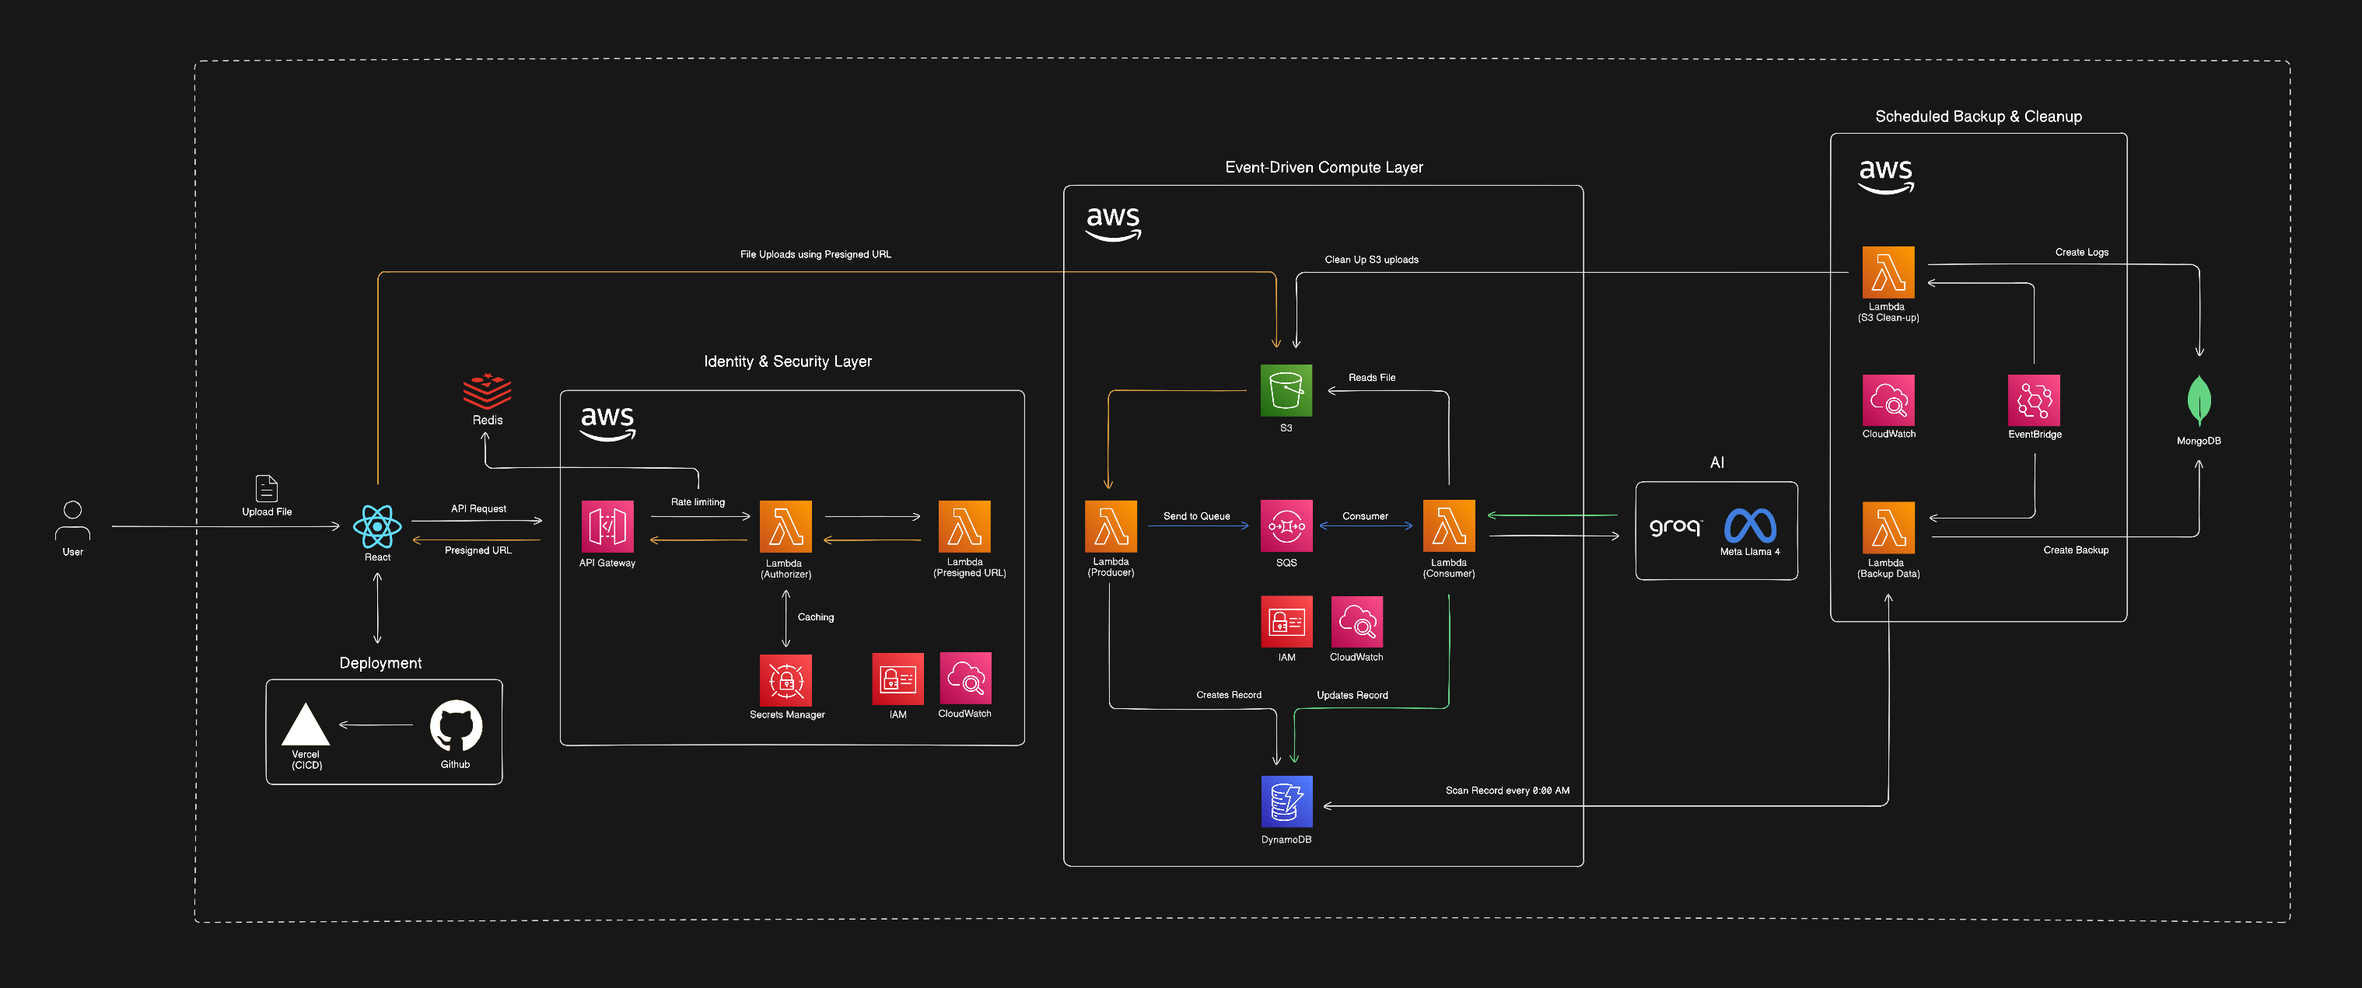
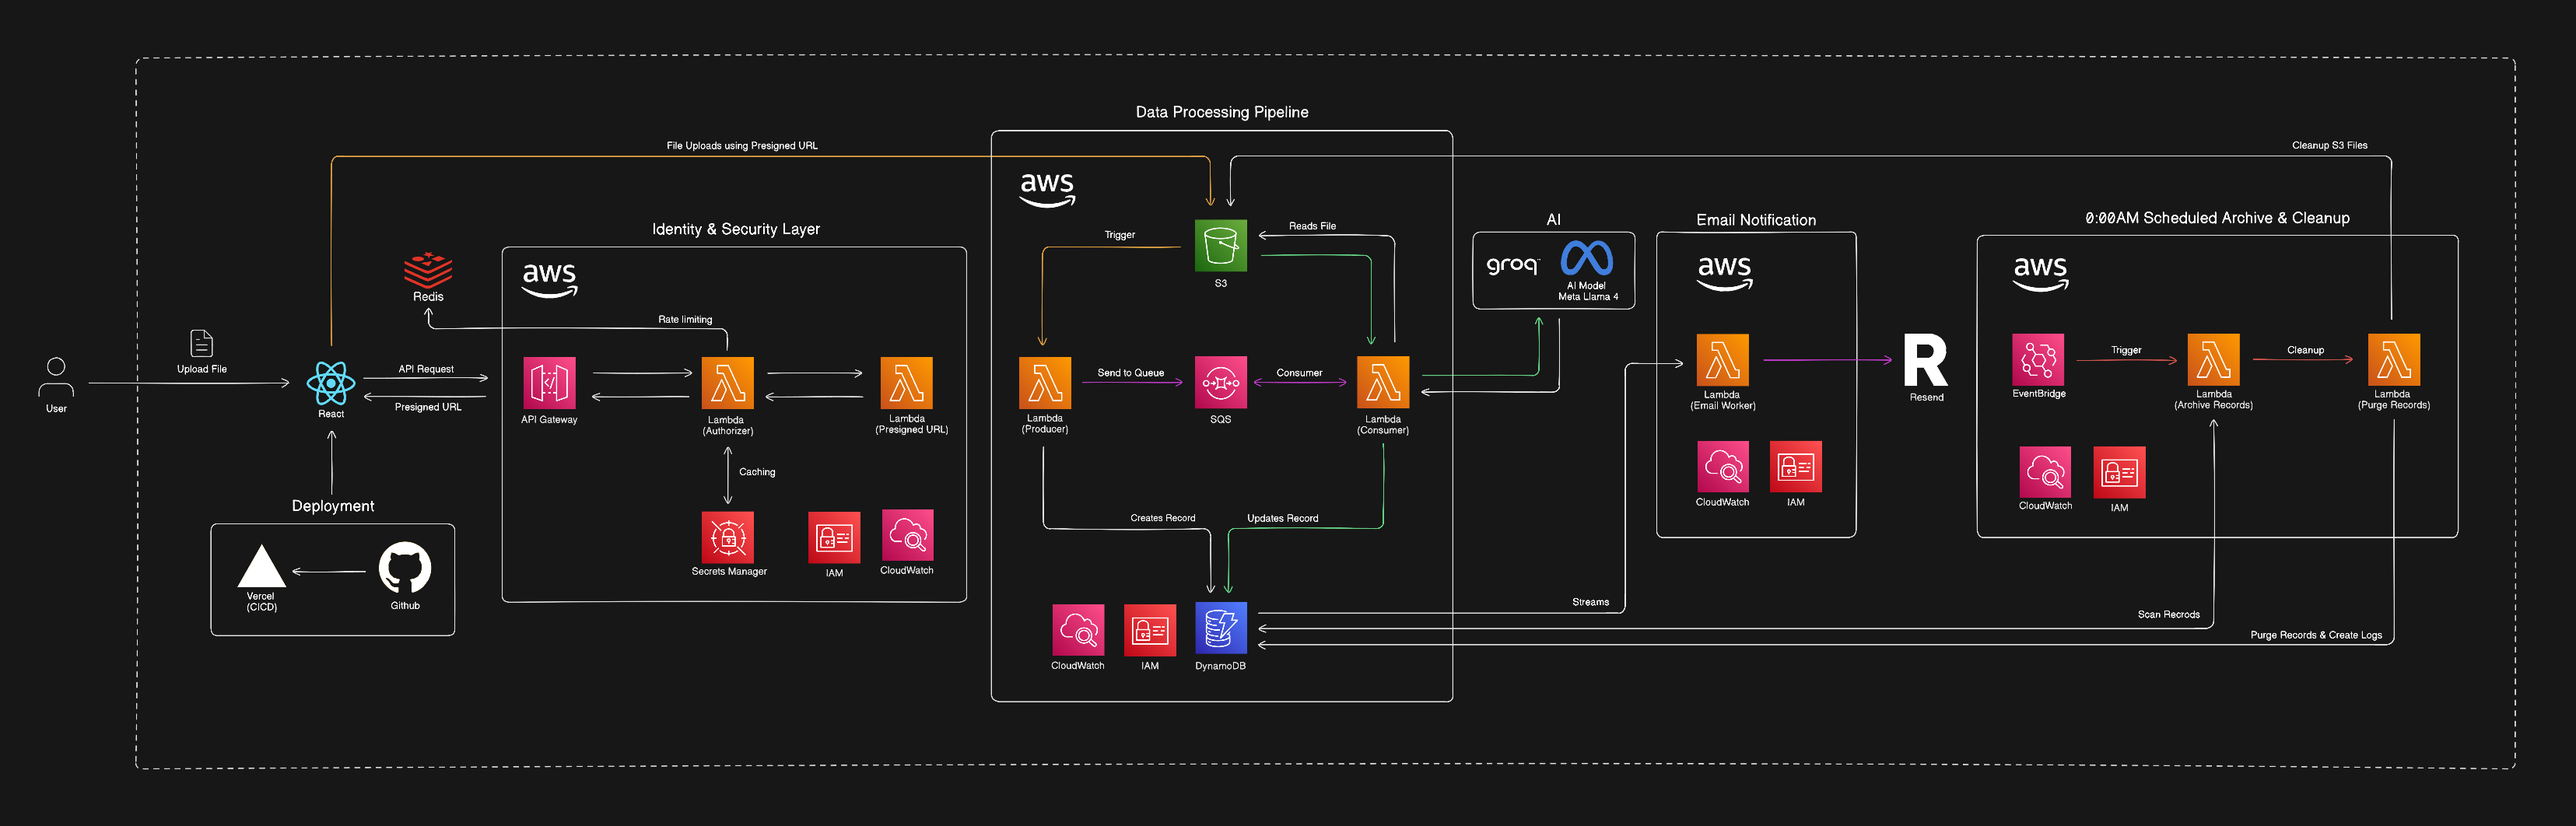
add Flow Diagram Image

diff --git a/frontend/src/components/custom/TechBadge.tsx b/frontend/src/components/custom/TechBadge.tsx
@@ -6,21 +6,51 @@ export default function TechBadge() {
       <div className="mb-4 mt-3">
         <h3 className="mb-3">Technologies:</h3>
         <div className="flex w-full flex-wrap justify-center gap-2">
-          <Badge variant="outline">AWS Lambda</Badge>
-          <Badge variant="outline">AWS DynamoDB</Badge>
-          <Badge variant="outline">AWS API Gateway</Badge>
-          <Badge variant="outline">AWS S3 Bucket</Badge>
-          <Badge variant="outline">AWS SQS</Badge>
-          <Badge variant="outline">AWS SNS</Badge>
-          <Badge variant="outline">AWS EventBridge</Badge>
-          <Badge variant="outline">AWS Secrets Manager</Badge>
-          <Badge variant="outline">AWS IAM</Badge>
-          <Badge variant="outline">AWS CloudWatch</Badge>
-          <Badge variant="outline">Redis</Badge>
-          <Badge variant="outline">AI Groq (LPU)</Badge>
-          <Badge variant="outline">Reactjs (TypeScript)</Badge>
-          <Badge variant="outline">Shadcn-ui</Badge>
-          <Badge variant="outline">Vercel (CICD)</Badge>
+          <Badge variant="outline" className="px-3 py-1">
+            AWS Lambda
+          </Badge>
+          <Badge variant="outline" className="px-3 py-1">
+            AWS DynamoDB
+          </Badge>
+          <Badge variant="outline" className="px-3 py-1">
+            AWS API Gateway
+          </Badge>
+          <Badge variant="outline" className="px-3 py-1">
+            AWS S3 Bucket
+          </Badge>
+          <Badge variant="outline" className="px-3 py-1">
+            AWS SQS
+          </Badge>
+          <Badge variant="outline" className="px-3 py-1">
+            AWS EventBridge
+          </Badge>
+          <Badge variant="outline" className="px-3 py-1">
+            AWS Secrets Manager
+          </Badge>
+          <Badge variant="outline" className="px-3 py-1">
+            AWS IAM
+          </Badge>
+          <Badge variant="outline" className="px-3 py-1">
+            AWS CloudWatch
+          </Badge>
+          <Badge variant="outline" className="px-3 py-1">
+            Redis
+          </Badge>
+          <Badge variant="outline" className="px-3 py-1">
+            AI Groq (LPU)
+          </Badge>
+          <Badge variant="outline" className="px-3 py-1">
+            Reactjs (TypeScript)
+          </Badge>
+          <Badge variant="outline" className="px-3 py-1">
+            Resend (Email API)
+          </Badge>
+          <Badge variant="outline" className="px-3 py-1">
+            Shadcn-UI
+          </Badge>
+          <Badge variant="outline" className="px-3 py-1">
+            Vercel
+          </Badge>
         </div>
       </div>
     </>

diff --git a/frontend/src/components/custom/DrawerRightSide.tsx b/frontend/src/components/custom/DrawerRightSide.tsx
@@ -12,6 +12,7 @@ import {
 import TechBadge from "./TechBadge";
 import { Github } from "lucide-react";
 import { User } from "lucide-react";
+import { FlowDiagram } from "./FlowDiagram";
 
 export default function DrawerRightSide() {
   return (
@@ -51,6 +52,8 @@ export default function DrawerRightSide() {
         </DrawerHeader>
         <div className="no-scrollbar overflow-y-auto px-4">
           <TechBadge />
+          <FlowDiagram src="assets/img/image01.png" alt="Flow Diagram" />
+
           <div className="text-justify">
             <h2 className="mb-2 mt-6">Description:</h2>
             Serverless CV summarization engine utilizes an event-driven AWS

diff --git a/frontend/src/components/custom/FlowDiagram.tsx b/frontend/src/components/custom/FlowDiagram.tsx
@@ -1,0 +1,25 @@
+import Zoom from "react-medium-image-zoom";
+import "react-medium-image-zoom/dist/styles.css";
+
+interface ImageProps {
+  src: string;
+  alt: string;
+}
+
+export const FlowDiagram = ({ src, alt }: ImageProps) => {
+  return (
+    <div className="p-1 rounded-xl max-w-[500px]">
+      <h2>Flow Diagram:</h2>
+      <p className="text-sm text-gray-500 mb-2 text-center">Click To Expand</p>
+
+      {/* Changed 'margin' to 'zoomMargin' */}
+      <Zoom zoomMargin={10}>
+        <img
+          src={src}
+          alt={alt}
+          className="w-full h-auto rounded-md cursor-zoom-in shadow-sm"
+        />
+      </Zoom>
+    </div>
+  );
+};

diff --git a/frontend/src/components/mode-toggle.tsx b/frontend/src/components/mode-toggle.tsx
@@ -18,7 +18,7 @@ export function ModeToggle() {
       <DropdownMenuTrigger asChild>
         <Button
           variant="outline"
-          size="lg"
+          size="icon-lg"
           onClick={() => setTheme(themeValue)}
         >
           <Sun className="h-[1.2rem] w-[1.2rem] scale-100 rotate-0 transition-all dark:scale-0 dark:-rotate-90" />
